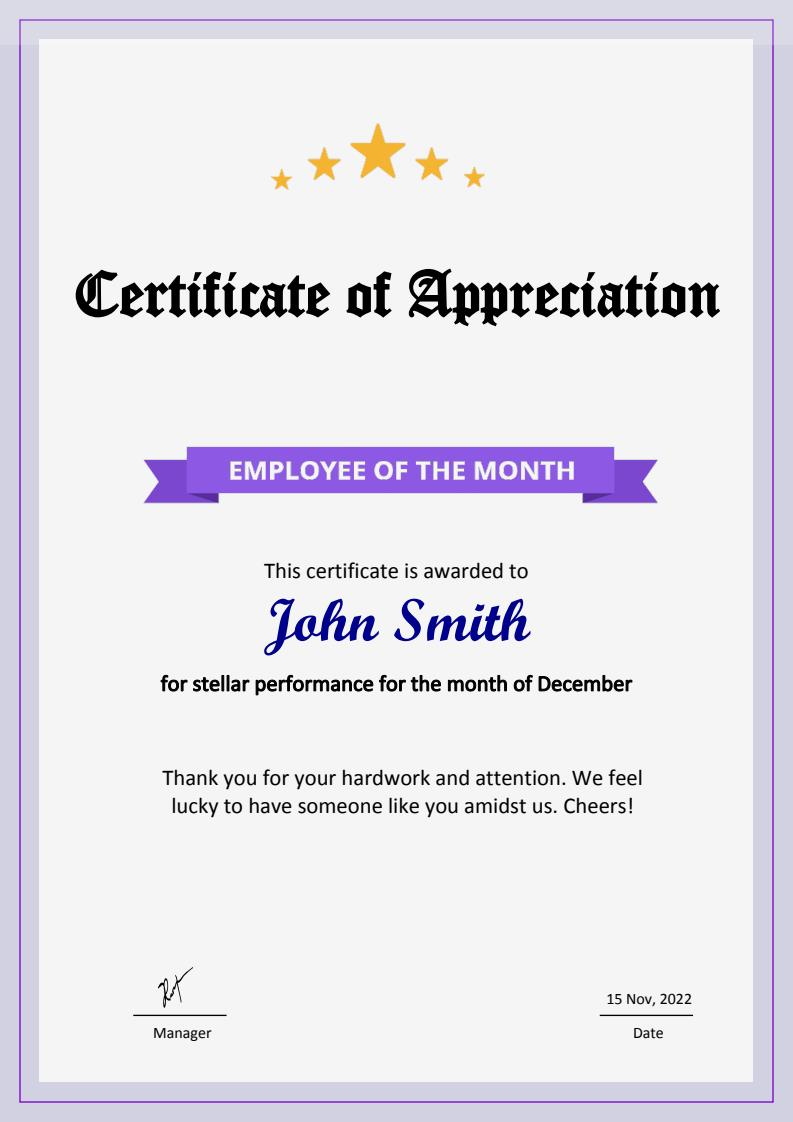
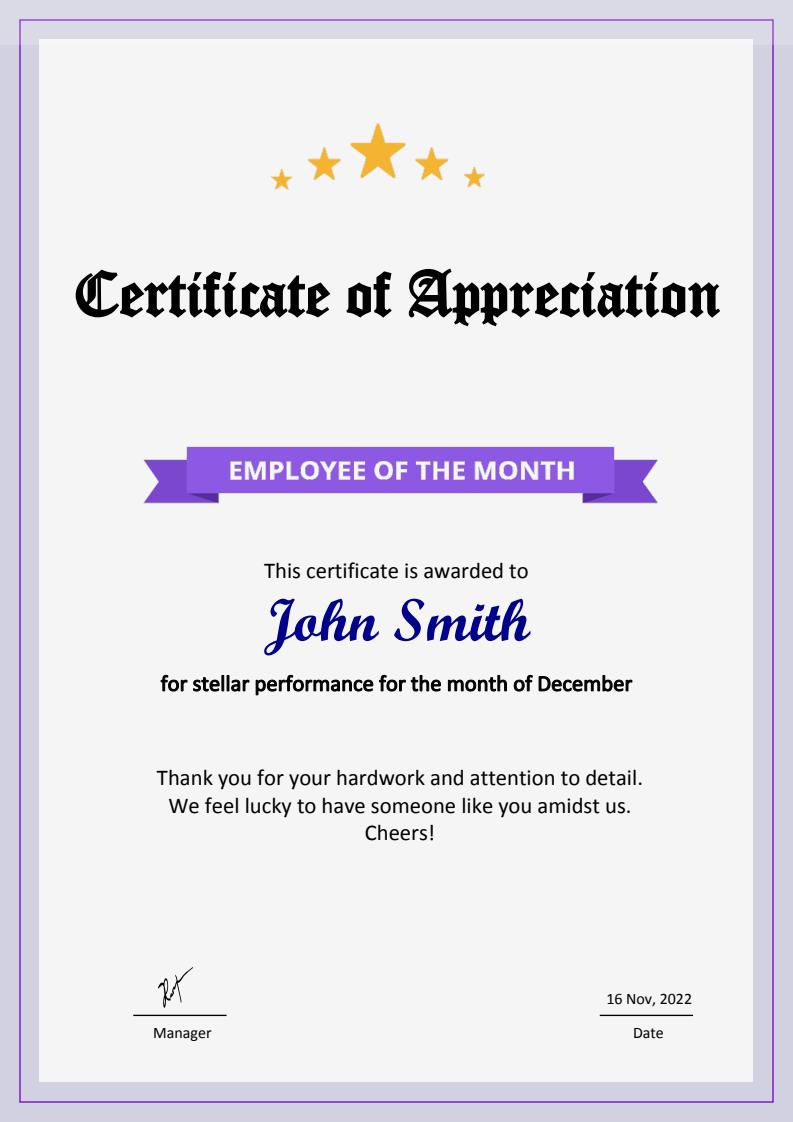
Modified the content in "Employee Certificate" and "Patient Discharge Summary" as per the content review

Changed region(s): [[0.2119, 0.6863, 0.8172, 0.7487]]

diff --git a/EmployeeCertificate/EmployeeCertificate/CertificateDocument.cs b/EmployeeCertificate/EmployeeCertificate/CertificateDocument.cs
@@ -122,7 +122,7 @@ namespace EmployeeCertificate
             result = new PdfTextElement(text, contentFont, new PdfPen(Color.Black, 0.5f)).Draw(currentPage, bounds);
 
             //Draw content text 
-            text = "Thank you for your hardwork and attention. We feel lucky to have someone like you amidst us. Cheers!";
+            text = "Thank you for your hardwork and attention to detail. We feel lucky to have someone like you amidst us. Cheers!";
             bounds = GetBounds(text, result.Bounds.Bottom + 50, textFont, 370);
             PdfTextElement textElement = new PdfTextElement(text, textFont);
             textElement.StringFormat = new PdfStringFormat(PdfTextAlignment.Center);

diff --git a/HospitalDischarge/HospitalDocument/DischargeDataSource.cs b/HospitalDischarge/HospitalDocument/DischargeDataSource.cs
@@ -77,7 +77,7 @@ namespace HospitalDocument
                 PhysicalExamination = GeneratePhysicalExamination(),
                 GeneralAppearance = GenerateGeneralAppearance(),
                 Medication = "Acetaminophen and Cephalosporins",
-                Instructions = "No activity restrictions, regular diet and follow up in two-three weeks with regular physician.",
+                Instructions = "Physical therapy, regular diet and follow up in two-three weeks with regular physician.",
                 Patient = "I have understood the instructions given about the medication dosage and discharge.",
             };
         }
